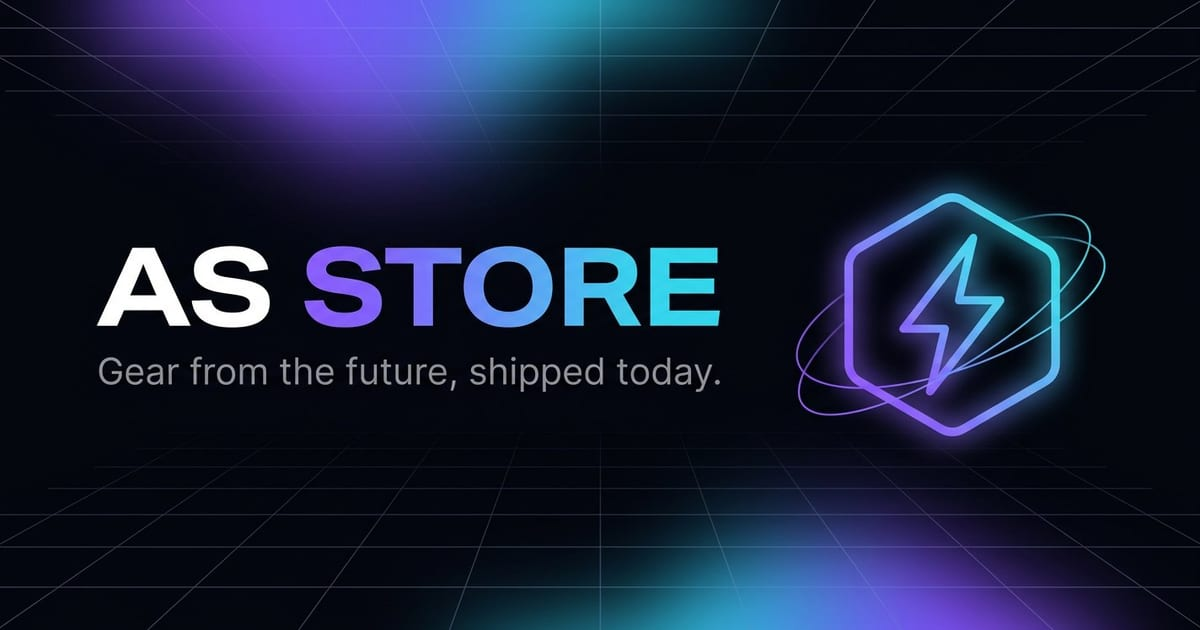
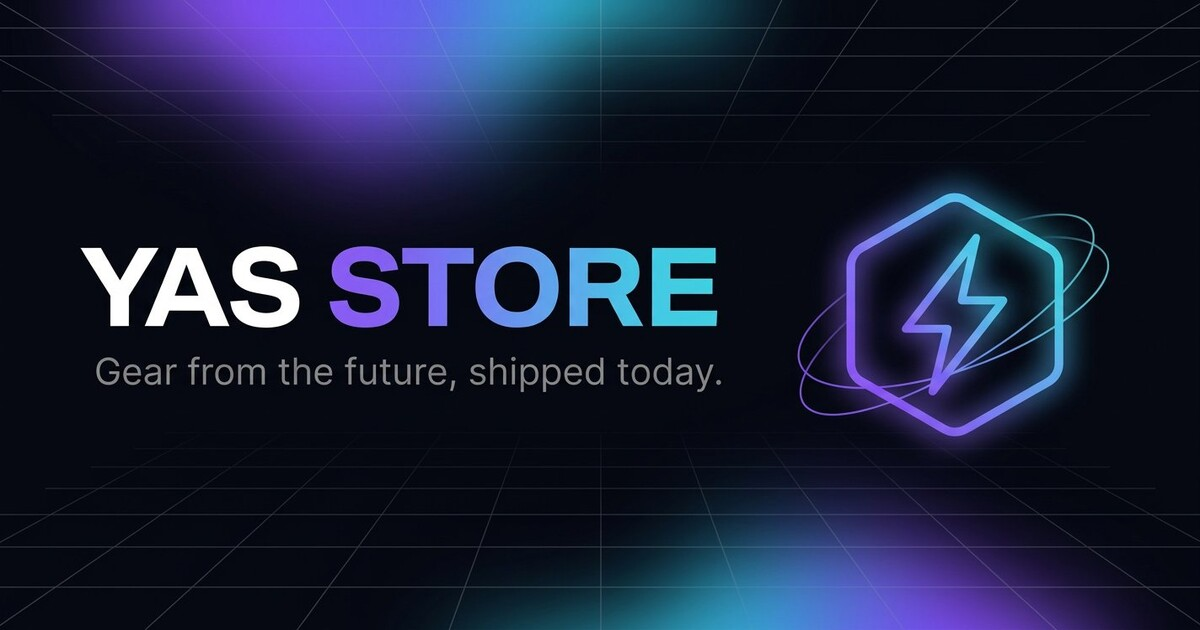
fix: rebrand AS Store → YAS Store
Replace every user-facing occurrence of the previous brand name across
SEO titles/descriptions, JSON-LD fallbacks (brand, author, WebSite),
Header/Footer shop-name fallbacks, the PWA manifest, README, .env.example,
the Volt design-system preview and the app.css banner.

Regenerate public/og-image.jpg (1200x630) with YAS STORE branding, keeping
the existing Volt aurora gradient and lightning-mark artwork.

Test fixtures updated accordingly (vendor 'AS Labs' -> 'YAS Labs').

diff --git a/app/lib/seo.test.js b/app/lib/seo.test.js
@@ -12,7 +12,7 @@ describe('buildRouteMeta', () => {
     const meta = buildRouteMeta({title: 'Home'});
 
     const title = meta.find((m) => 'title' in m);
-    expect(title?.title).toBe('Home · AS Store');
+    expect(title?.title).toBe('Home · YAS Store');
 
     expect(meta).toContainEqual({
       name: 'description',
@@ -23,13 +23,13 @@ describe('buildRouteMeta', () => {
   });
 
   it('uses the bare brand title when title matches the brand', () => {
-    const meta = buildRouteMeta({title: 'AS Store'});
-    expect(meta.find((m) => 'title' in m)?.title).toBe('AS Store');
+    const meta = buildRouteMeta({title: 'YAS Store'});
+    expect(meta.find((m) => 'title' in m)?.title).toBe('YAS Store');
   });
 
   it('falls back to the brand title when no title is given', () => {
     const meta = buildRouteMeta({});
-    expect(meta.find((m) => 'title' in m)?.title).toBe('AS Store');
+    expect(meta.find((m) => 'title' in m)?.title).toBe('YAS Store');
   });
 
   it('includes canonical, image and large-image card when provided', () => {
@@ -68,7 +68,7 @@ describe('productJsonLd', () => {
       /** @type {any} */ ({
         title: 'Neural Headset',
         description: 'A headset.',
-        vendor: 'AS Labs',
+        vendor: 'YAS Labs',
         featuredImage: {url: 'https://cdn.example.com/h.jpg'},
         selectedOrFirstAvailableVariant: {
           sku: 'NH-1',
@@ -81,7 +81,7 @@ describe('productJsonLd', () => {
 
     expect(ld['@type']).toBe('Product');
     expect(ld.name).toBe('Neural Headset');
-    expect(ld.brand.name).toBe('AS Labs');
+    expect(ld.brand.name).toBe('YAS Labs');
     expect(ld.offers.price).toBe('199.00');
     expect(ld.offers.priceCurrency).toBe('USD');
     expect(ld.offers.availability).toBe('https://schema.org/InStock');
@@ -143,7 +143,7 @@ describe('breadcrumbJsonLd', () => {
 
 describe('websiteJsonLd', () => {
   it('includes a SearchAction', () => {
-    const ld = websiteJsonLd({shopName: 'AS Store', url: 'https://x.com'});
+    const ld = websiteJsonLd({shopName: 'YAS Store', url: 'https://x.com'});
     expect(ld['@type']).toBe('WebSite');
     expect(ld.potentialAction.target).toBe(
       'https://x.com/search?q={search_term_string}',

diff --git a/guides/design-preview.html b/guides/design-preview.html
@@ -3,7 +3,7 @@
   <head>
     <meta charset="utf-8" />
     <meta name="viewport" content="width=device-width,initial-scale=1" />
-    <title>AS Store — Volt Design System Preview</title>
+    <title>YAS Store — Volt Design System Preview</title>
     <link rel="stylesheet" href="../app/styles/reset.css" />
     <link rel="stylesheet" href="../app/styles/app.css" />
     <style>
@@ -61,7 +61,7 @@
             <path d="M35.5 15 22 34.5h8.5L27 49l14.5-19.5H33Z" fill="url(#lg1)" />
           </svg>
         </span>
-        <span>AS Store</span>
+        <span>YAS Store</span>
       </a>
       <nav class="header-menu-desktop" role="navigation">
         <a class="header-menu-item active" href="#">Home</a>
@@ -272,7 +272,7 @@
               <path d="M32 7 53 19.25v25.5L32 57 11 44.75v-25.5Z" fill="none" stroke="url(#lg2)" stroke-width="3.5" stroke-linejoin="round" />
               <path d="M35.5 15 22 34.5h8.5L27 49l14.5-19.5H33Z" fill="url(#lg2)" />
             </svg>
-            <span class="gradient-text">AS Store</span>
+            <span class="gradient-text">YAS Store</span>
           </span>
           <p>
             High-tech gear, engineered for tomorrow. Every product in the catalog
@@ -299,7 +299,7 @@
         </div>
       </div>
       <div class="footer-bottom">
-        <span>© 2026 AS Store — All rights reserved</span>
+        <span>© 2026 YAS Store — All rights reserved</span>
         <span class="footer-powered">
           <span class="pulse"></span> Powered by <a href="#">Hydrogen</a>
         </span>

diff --git a/app/lib/seo.js b/app/lib/seo.js
@@ -8,7 +8,7 @@
  *   <StructuredData data={productJsonLd(product)} />
  */
 
-const DEFAULT_TITLE = 'AS Store';
+const DEFAULT_TITLE = 'YAS Store';
 const TITLE_SEPARATOR = '·';
 
 /**
@@ -113,7 +113,7 @@ export function productJsonLd(product, options = {}) {
     sku: variant?.sku ?? undefined,
     barcode: variant?.barcode ?? undefined,
     image: product.featuredImage?.url ? [product.featuredImage.url] : undefined,
-    brand: {'@type': 'Brand', name: product.vendor || 'AS Store'},
+    brand: {'@type': 'Brand', name: product.vendor || 'YAS Store'},
     url: options.url,
     offers: price
       ? {
@@ -166,7 +166,7 @@ export function articleJsonLd(article) {
     image: article.image?.url ? [article.image.url] : undefined,
     datePublished: article.publishedAt,
     dateModified: article.publishedAt,
-    author: {'@type': 'Person', name: article.author?.name ?? 'AS Store'},
+    author: {'@type': 'Person', name: article.author?.name ?? 'YAS Store'},
   };
 }
 

diff --git a/app/components/Footer.jsx b/app/components/Footer.jsx
@@ -16,7 +16,7 @@ export function Footer({footer: footerPromise, header, publicStoreDomain}) {
                 <span className="footer-brand-logo">
                   <LogoMark size={30} />
                   <span className="gradient-text">
-                    {header?.shop?.name ?? 'AS Store'}
+                    {header?.shop?.name ?? 'YAS Store'}
                   </span>
                 </span>
                 <p>
@@ -57,7 +57,7 @@ export function Footer({footer: footerPromise, header, publicStoreDomain}) {
 
             <div className="footer-bottom">
               <span>
-                © {new Date().getFullYear()} {header?.shop?.name ?? 'AS Store'}{' '}
+                © {new Date().getFullYear()} {header?.shop?.name ?? 'YAS Store'}{' '}
                 — All rights reserved
               </span>
               <span className="footer-powered">

diff --git a/app/root.jsx b/app/root.jsx
@@ -69,7 +69,7 @@ export function links() {
  * @type {Route.MetaFunction}
  */
 export const meta = ({data}) => {
-  const shopName = data?.header?.shop?.name ?? 'AS Store';
+  const shopName = data?.header?.shop?.name ?? 'YAS Store';
   const origin = data?.origin;
   return [
     {name: 'theme-color', content: '#05060c'},
@@ -205,7 +205,7 @@ export default function App() {
       <StructuredData
         nonce={nonce}
         data={websiteJsonLd({
-          shopName: data.header?.shop?.name ?? 'AS Store',
+          shopName: data.header?.shop?.name ?? 'YAS Store',
         })}
       />
       <PageLayout {...data}>

diff --git a/app/components/Header.jsx b/app/components/Header.jsx
@@ -21,7 +21,7 @@ export function Header({header, isLoggedIn, cart, publicStoreDomain}) {
         <span className="header-brand-logo">
           <LogoMark size={20} />
         </span>
-        <span>{shop?.name ?? 'AS Store'}</span>
+        <span>{shop?.name ?? 'YAS Store'}</span>
       </NavLink>
       <HeaderMenu
         menu={menu}

diff --git a/app/routes/collections.$handle.jsx b/app/routes/collections.$handle.jsx
@@ -14,7 +14,7 @@ export const meta = ({data}) => {
     title: `${data?.collection.title ?? 'Collection'}`,
     description:
       data?.collection.description?.slice(0, 155) ||
-      'Browse the collection at AS Store.',
+      'Browse the collection at YAS Store.',
     type: 'website',
   });
 };

diff --git a/app/routes/policies.$handle.jsx b/app/routes/policies.$handle.jsx
@@ -7,7 +7,7 @@ import {buildRouteMeta} from '~/lib/seo';
 export const meta = ({data}) => {
   return buildRouteMeta({
     title: data?.policy.title,
-    description: `${data?.policy.title ?? 'Policy'} for AS Store.`,
+    description: `${data?.policy.title ?? 'Policy'} for YAS Store.`,
   });
 };
 

diff --git a/app/styles/app.css b/app/styles/app.css
@@ -1,5 +1,5 @@
 /* ==================================================================
- * AS STORE — “VOLT” design system
+ * YAS STORE — “VOLT” design system
  * A high-tech, dark, glassmorphic storefront theme.
  * ================================================================== */
 

diff --git a/app/routes/_index.jsx b/app/routes/_index.jsx
@@ -17,7 +17,7 @@ import {buildRouteMeta} from '~/lib/seo';
  */
 export const meta = () => {
   return buildRouteMeta({
-    title: 'AS Store',
+    title: 'YAS Store',
     description:
       'High-tech gear, engineered for tomorrow. Discover the catalog — built on Shopify Hydrogen.',
   });

diff --git a/README.md b/README.md
@@ -1,10 +1,10 @@
-# AS Store — Hydrogen Storefront
+# YAS Store — Hydrogen Storefront
 
 A high-tech Shopify storefront built on **Hydrogen 2026.1** and **React Router 7** —
 server-rendered at the edge, streamed for instant loads, and dressed in a custom
 "Volt" dark design system.
 
-![AS Store](public/og-image.jpg)
+![YAS Store](public/og-image.jpg)
 
 ## ✨ What's inside
 
